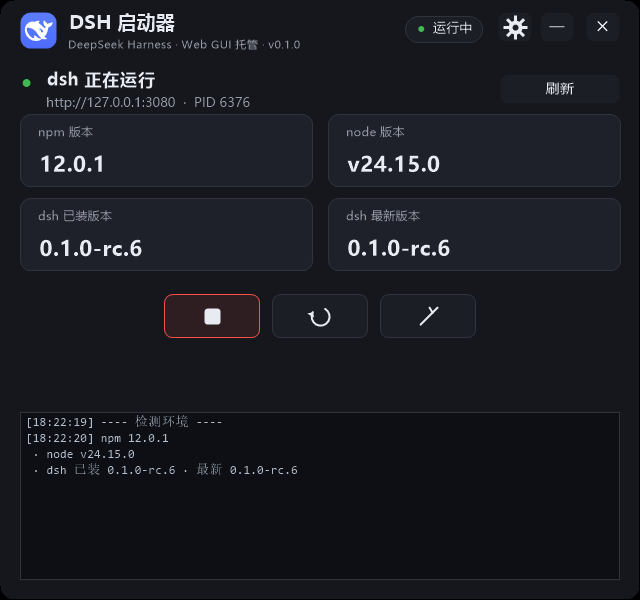
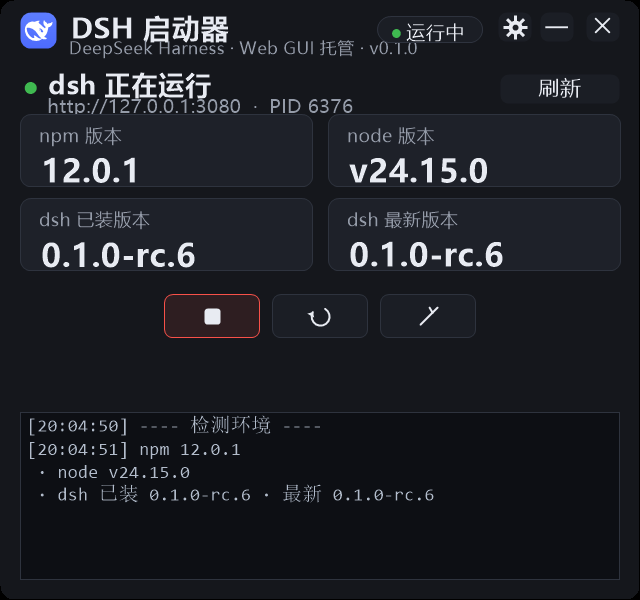
feat: 界面缩放适配 — 固定设计尺寸（RDP/高 DPI 不再放大）+ 设置内 85/100/115% 手动缩放

diff --git a/SettingsForm.cs b/SettingsForm.cs
@@ -18,6 +18,7 @@ namespace DshLauncher
         public bool MinimizeToTray = true;
         public bool AutoCheckOnStart = true;
         public string Language = Lang.Zh;
+        public int UiScale = 100; // 界面缩放百分比：85 / 100 / 115
     }
 
     /// <summary>配置读写：%APPDATA%\DshLauncher\config.json（避免 OneDrive 同步干扰）。</summary>
@@ -55,6 +56,11 @@ namespace DshLauncher
                     string l = (string)v;
                     if (l == Lang.En || l == Lang.Zh) s.Language = l;
                 }
+                if (map.TryGetValue("uiScale", out v) && v is double)
+                {
+                    int sc = (int)(double)v;
+                    if (sc == 85 || sc == 100 || sc == 115) s.UiScale = sc;
+                }
             }
             catch { }
             return s;
@@ -69,7 +75,9 @@ namespace DshLauncher
                     + ",\n  \"autoOpenBrowser\": " + Bool(s.AutoOpenBrowser)
                     + ",\n  \"minimizeToTray\": " + Bool(s.MinimizeToTray)
                     + ",\n  \"autoCheckOnStart\": " + Bool(s.AutoCheckOnStart)
-                    + ",\n  \"language\": \"" + s.Language + "\"\n}";
+                    + ",\n  \"language\": \"" + s.Language + "\""
+                    + ",\n  \"uiScale\": " + s.UiScale.ToString(CultureInfo.InvariantCulture)
+                    + "\n}";
                 File.WriteAllText(FilePath, json);
             }
             catch { }
@@ -143,7 +151,7 @@ namespace DshLauncher
     /// </summary>
     public class SettingsForm : Form
     {
-        private const int WinW = 400, WinH = 400;
+        private const int WinW = 400, WinH = 440;
         private readonly float _s;
 
         private int P(float v) { return (int)(v * _s + 0.5f); }
@@ -175,12 +183,14 @@ namespace DshLauncher
         private readonly List<CheckItem> _checks = new List<CheckItem>();
         private readonly List<BtnItem> _btns = new List<BtnItem>();
         private readonly List<ChipItem> _langChips = new List<ChipItem>();
+        private readonly List<ChipItem> _scaleChips = new List<ChipItem>();
 
         private TextBox _portBox;
         private readonly DshSettings _working;
         private Font _fTitle, _fLabel, _fSmall, _fBtn;
         private readonly StringFormat _centerFmt = new StringFormat();
         private string _lang;
+        private int _scale = 100;
 
         public DshSettings Result { get; private set; }
 
@@ -193,8 +203,9 @@ namespace DshLauncher
             _working.AutoCheckOnStart = current.AutoCheckOnStart;
             _working.Language = current.Language;
             _lang = current.Language;
+            _scale = current.UiScale;
 
-            using (Graphics g = CreateGraphics()) _s = Math.Max(1f, g.DpiX / 96f);
+            _s = 1f; // 固定设计尺寸（与主窗口一致，不随 RDP 高 DPI 放大）
 
             FormBorderStyle = FormBorderStyle.None;
             StartPosition = FormStartPosition.CenterParent;
@@ -259,6 +270,25 @@ namespace DshLauncher
             en.Rect = new Rectangle(P(176), P(252), P(84), P(28));
             _langChips.Add(en);
 
+            // 界面缩放
+            ChipItem sc1 = new ChipItem();
+            sc1.Text = Lang.T("scale_small");
+            sc1.Value = "85";
+            sc1.Rect = new Rectangle(P(96), P(290), P(64), P(28));
+            _scaleChips.Add(sc1);
+
+            ChipItem sc2 = new ChipItem();
+            sc2.Text = Lang.T("scale_medium");
+            sc2.Value = "100";
+            sc2.Rect = new Rectangle(P(168), P(290), P(64), P(28));
+            _scaleChips.Add(sc2);
+
+            ChipItem sc3 = new ChipItem();
+            sc3.Text = Lang.T("scale_large");
+            sc3.Value = "115";
+            sc3.Rect = new Rectangle(P(240), P(290), P(64), P(28));
+            _scaleChips.Add(sc3);
+
             // 按钮
             BtnItem closeX = new BtnItem();
             closeX.Text = "✕";
@@ -270,14 +300,14 @@ namespace DshLauncher
             BtnItem cancel = new BtnItem();
             cancel.Text = Lang.T("settings_cancel");
             cancel.Variant = ButtonVariant.Ghost;
-            cancel.Rect = new Rectangle(P(190), P(346), P(80), P(38));
+            cancel.Rect = new Rectangle(P(190), P(382), P(80), P(38));
             cancel.OnClick = delegate { DialogResult = DialogResult.Cancel; Close(); };
             _btns.Add(cancel);
 
             BtnItem save = new BtnItem();
             save.Text = Lang.T("settings_save");
             save.Variant = ButtonVariant.Primary;
-            save.Rect = new Rectangle(P(286), P(346), P(80), P(38));
+            save.Rect = new Rectangle(P(286), P(382), P(80), P(38));
             save.OnClick = delegate { SaveAndClose(); };
             _btns.Add(save);
         }
@@ -300,12 +330,37 @@ namespace DshLauncher
             {
                 g.DrawString(Lang.T("settings_port_hint"), _fSmall, m, P(20), P(98));
                 g.DrawString(Lang.T("settings_lang"), _fLabel, m, P(20), P(256));
-                g.DrawString(Lang.T("settings_tip"), _fSmall, m, P(20), P(296));
+                g.DrawString(Lang.T("settings_scale"), _fLabel, m, P(20), P(294));
+                g.DrawString(Lang.T("settings_tip"), _fSmall, m, P(20), P(336));
             }
 
             foreach (CheckItem c in _checks) DrawCheck(g, c);
             DrawLangChips(g);
+            DrawScaleChips(g);
             foreach (BtnItem b in _btns) Theme.PaintButton(g, b.Rect, b.Variant, b.Text, _fBtn, true, b.Hover, b.Down);
+        }
+
+        private void DrawScaleChips(Graphics g)
+        {
+            foreach (ChipItem c in _scaleChips)
+            {
+                bool sel = c.Value == _scale.ToString(CultureInfo.InvariantCulture);
+                Rectangle r = c.Rect;
+                using (GraphicsPath gp = Theme.RoundedRect(r, 14))
+                using (SolidBrush f = new SolidBrush(sel ? Theme.Accent : Theme.BgAlt))
+                {
+                    g.FillPath(f, gp);
+                }
+                using (GraphicsPath gp = Theme.RoundedRect(r, 14))
+                using (Pen pn = new Pen(sel ? Theme.Accent : Theme.CardBorder))
+                {
+                    g.DrawPath(pn, gp);
+                }
+                using (SolidBrush t = new SolidBrush(sel ? Color.White : Theme.Text))
+                {
+                    g.DrawString(c.Text, _fLabel, t, r, _centerFmt);
+                }
+            }
         }
 
         private void DrawLangChips(Graphics g)
@@ -383,6 +438,10 @@ namespace DshLauncher
             {
                 if (c.Rect.Contains(e.Location)) hand = true;
             }
+            foreach (ChipItem c in _scaleChips)
+            {
+                if (c.Rect.Contains(e.Location)) hand = true;
+            }
             if (changed) Invalidate();
             Cursor = hand ? Cursors.Hand : Cursors.Default;
         }
@@ -397,6 +456,16 @@ namespace DshLauncher
                 if (c.Rect.Contains(e.Location))
                 {
                     _lang = c.Value;
+                    Invalidate();
+                    return;
+                }
+            }
+            foreach (ChipItem c in _scaleChips)
+            {
+                if (c.Rect.Contains(e.Location))
+                {
+                    int v;
+                    if (int.TryParse(c.Value, NumberStyles.None, CultureInfo.InvariantCulture, out v)) _scale = v;
                     Invalidate();
                     return;
                 }
@@ -466,6 +535,7 @@ namespace DshLauncher
             _working.MinimizeToTray = _checks[1].Checked;
             _working.AutoCheckOnStart = _checks[2].Checked;
             _working.Language = _lang;
+            _working.UiScale = _scale;
             Result = _working;
             DialogResult = DialogResult.OK;
             Close();

diff --git a/DshLauncher.cs b/DshLauncher.cs
@@ -284,9 +284,9 @@ namespace DshLauncher
     /// </summary>
     internal class MainForm : Form
     {
-        // ---------- 布局（96dpi 设计坐标，运行期按 DPI 缩放） ----------
+        // ---------- 布局（96dpi 设计坐标，运行期按 DPI / 缩放设置缩放） ----------
         private const int WinW = 640, WinH = 600;
-        private readonly float _s;
+        private float _s;
 
         private int P(float v) { return (int)(v * _s + 0.5f); }
 
@@ -341,7 +341,7 @@ namespace DshLauncher
         public MainForm()
         {
             _settings = ConfigStore.Load();
-            using (Graphics g = CreateGraphics()) _s = Math.Max(1f, g.DpiX / 96f);
+            ComputeScale();
 
             Text = "DSH 启动器";
             Icon = Program.AppIcon();
@@ -371,6 +371,43 @@ namespace DshLauncher
         }
 
         // ---------- 初始化 ----------
+
+        // ---------- 初始化 ----------
+
+        /// <summary>
+        /// 计算界面缩放系数：
+        /// DPI 自动缩放上限 100% —— RDP 等高 DPI 会话（125%/150%）下界面不再被放大，
+        /// 始终以固定设计尺寸显示；需要更大/更小用设置里的手动缩放（85 / 100 / 115%）。
+        /// 并保证窗口不超出屏幕工作区。
+        /// </summary>
+        private void ComputeScale()
+        {
+            float s = 1f; // 固定设计尺寸（不随 RDP / 高 DPI 放大）
+            s *= _settings.UiScale / 100f;
+            try
+            {
+                Rectangle wa = Screen.PrimaryScreen.WorkingArea;
+                float m = Math.Min(wa.Width / (float)WinW, wa.Height / (float)WinH);
+                if (s > m) s = m; // 不超过屏幕
+            }
+            catch { }
+            _s = Math.Max(0.7f, s);
+        }
+
+        /// <summary>缩放设置变化后重建布局（按钮、字体、日志区、窗口尺寸）。</summary>
+        private void ApplyUiScale()
+        {
+            ComputeScale();
+            _btns.Clear();
+            InitFonts();
+            InitButtons();
+            _logView.Font = new Font("Consolas", 9f * _s);
+            _logView.SetBounds(P(20), P(412), P(600), P(168));
+            ClientSize = new Size(P(WinW), P(WinH));
+            try { Theme.ApplyRegion(this, 14); } catch { }
+            UpdateButtons();
+            Invalidate();
+        }
 
         private void InitFonts()
         {
@@ -1211,6 +1248,7 @@ namespace DshLauncher
                     _settings.MinimizeToTray = f.Result.MinimizeToTray;
                     _settings.AutoCheckOnStart = f.Result.AutoCheckOnStart;
                     _settings.Language = f.Result.Language;
+                    _settings.UiScale = f.Result.UiScale;
                     ConfigStore.Save(_settings);
                     bool langChanged = _settings.Language != Lang.Current;
                     Lang.Current = _settings.Language == Lang.En ? Lang.En : Lang.Zh;
@@ -1222,8 +1260,8 @@ namespace DshLauncher
                         _bRefresh.Text = Lang.T("refresh");
                         InitTray(); // 重建托盘菜单
                         _statusMain = Lang.T("status_checking");
-                        Invalidate();
                     }
+                    ApplyUiScale(); // 应用界面缩放（同时重建布局与文本）
                     RefreshStatusAsync();
                 }
             }

diff --git a/Lang.cs b/Lang.cs
@@ -74,6 +74,10 @@ namespace DshLauncher
             { "settings_lang", new[] { "界面语言", "Language" } },
             { "settings_lang_zh", new[] { "中文", "中文" } },
             { "settings_lang_en", new[] { "English", "English" } },
+            { "settings_scale", new[] { "界面缩放", "UI scale" } },
+            { "scale_small", new[] { "小", "Small" } },
+            { "scale_medium", new[] { "中", "Medium" } },
+            { "scale_large", new[] { "大", "Large" } },
             { "settings_tip", new[] { "更多设置将在后续版本中提供。", "More settings in future versions." } },
             { "settings_save", new[] { "保存", "Save" } },
             { "settings_cancel", new[] { "取消", "Cancel" } },

diff --git a/README.md b/README.md
@@ -58,7 +58,8 @@ powershell -ExecutionPolicy Bypass -File .\build.ps1
   "autoOpenBrowser": false,  // 启动成功后自动打开浏览器
   "minimizeToTray": true,    // 关闭窗口时最小化到托盘
   "autoCheckOnStart": true,  // 程序启动时自动检测环境
-  "language": "zh"           // 界面语言：zh / en
+  "language": "zh",          // 界面语言：zh / en
+  "uiScale": 100             // 界面缩放：85 / 100 / 115（高 DPI / RDP 下可调小）
 }
 ```
 
